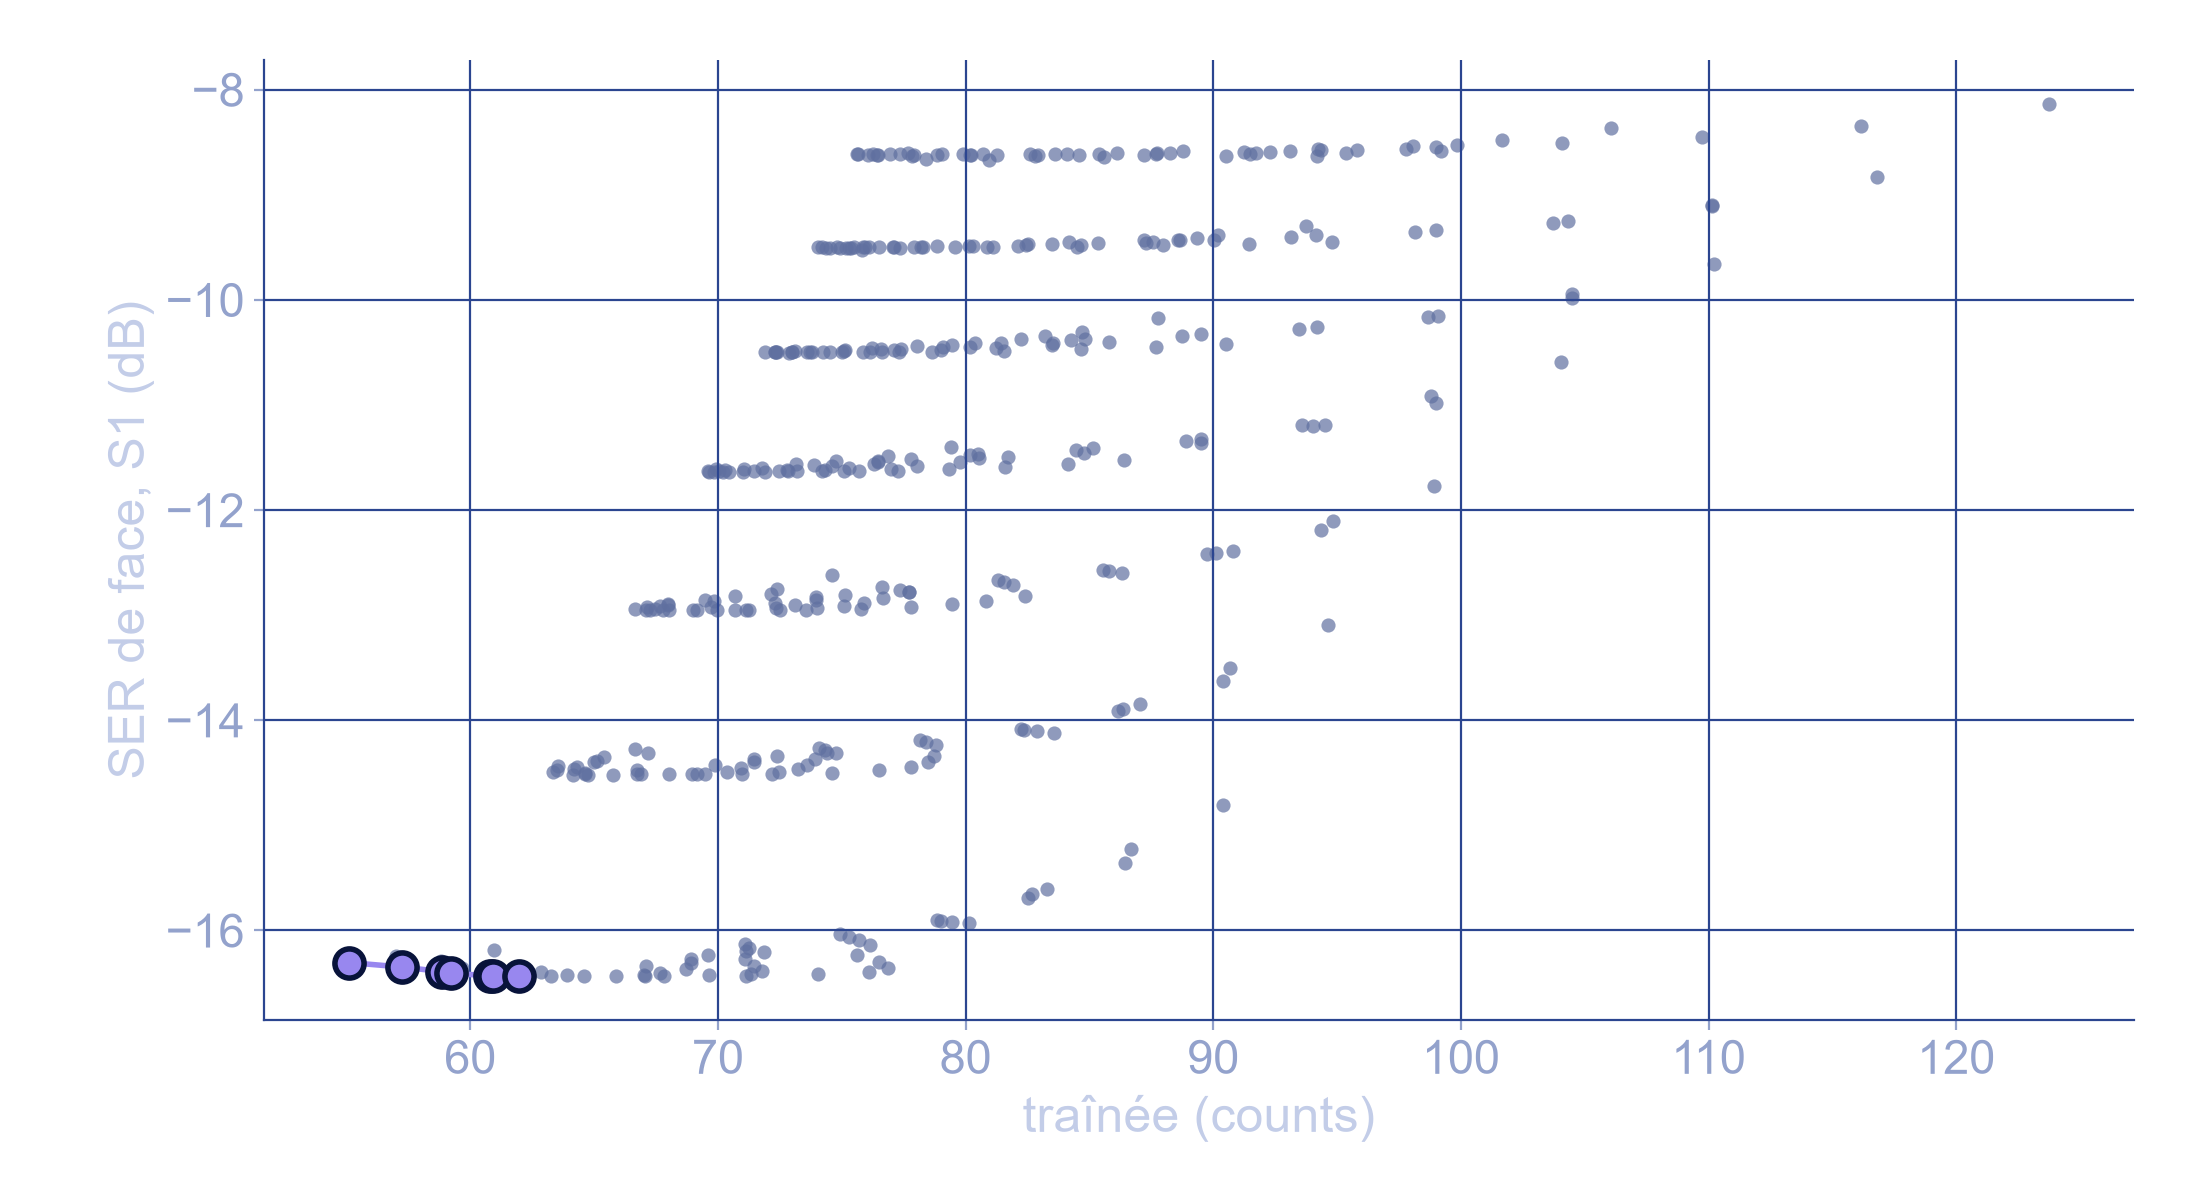
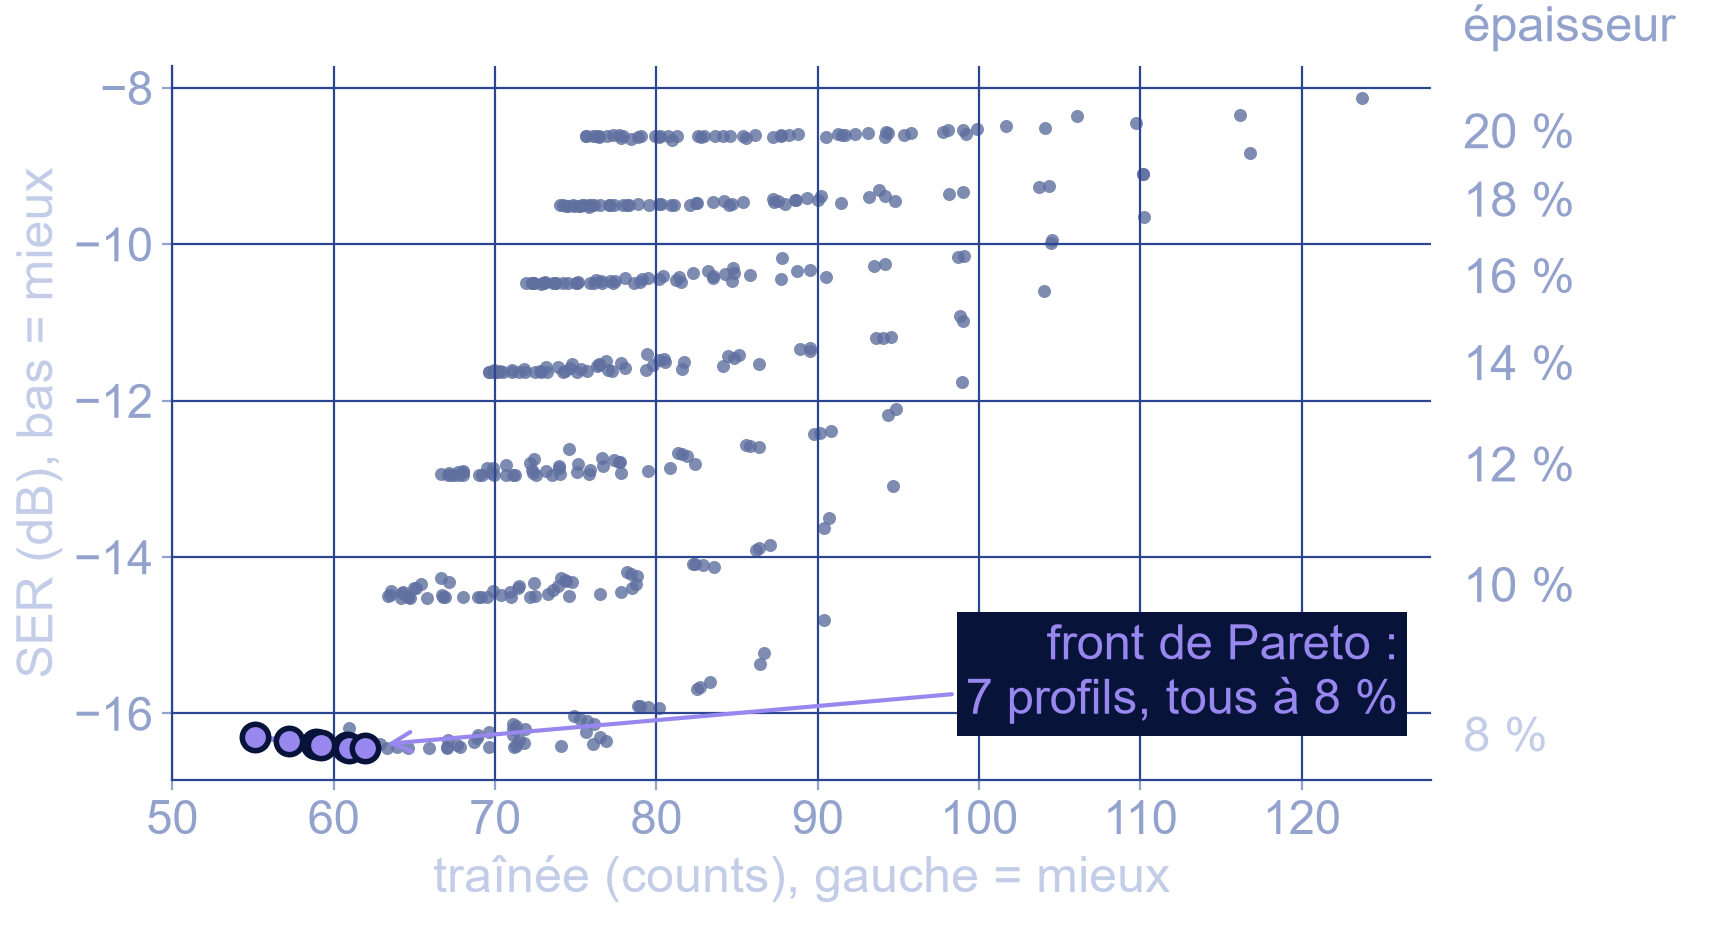
[V3] Wrap-up : figure V1 lisible (bandes d'épaisseur étiquetées), fond #08133A
- v1_front.png : chaque bande de points est étiquetée par son épaisseur,
  le front de Pareto est annoté, les axes indiquent le sens « mieux ».
- Toutes les figures : couleur de fond alignée sur le deck (#08133A).

diff --git a/wrapup/build.py b/wrapup/build.py
@@ -100,14 +100,24 @@ F1 = np.array([[float(r["CD_counts"]), float(r["SER_db"])] for r in R1])
 t1 = np.array([float(r["t"]) for r in R1])
 fr = pareto(F1)
 print(f"   V1 S1 : {len(R1)} faisables, front {len(fr)} profils, épaisseurs du front {sorted(set(t1[fr]))}")
-fig, ax = figure(1100, 600)
-ax.scatter(F1[:, 0], F1[:, 1], s=26, color=CTX, alpha=0.7, lw=0)
+fig, ax = figure(862, 470)  # affichée à cette taille sur la slide : 17,5 pt = 24 px
+ax.scatter(F1[:, 0], F1[:, 1], s=22, color=CTX, alpha=0.8, lw=0)
 o = fr[np.argsort(F1[fr, 0])]
 ax.plot(F1[o, 0], F1[o, 1], color=QUBO, lw=2)
-ax.scatter(F1[fr, 0], F1[fr, 1], s=110, color=QUBO, edgecolor=NAVY, lw=2, zorder=3)
-ax.set(xlabel="traînée (counts)", ylabel="SER de face, S1 (dB)")
+ax.scatter(F1[fr, 0], F1[fr, 1], s=90, color=QUBO, edgecolor=NAVY, lw=2, zorder=3)
+XR = 128
+ax.set(xlim=(50, XR), xlabel="traînée (counts), gauche = mieux", ylabel="SER (dB), bas = mieux")
+# chaque bande horizontale est une épaisseur : étiquetée à droite, alignée sur sa bande
+ax.text(XR + 2, F1[:, 1].max() + 0.9, "épaisseur", color=MUTE, fontsize=17.5, va="center", clip_on=False)
+for t in sorted(set(t1)):
+    ax.text(XR + 2, np.median(F1[t1 == t, 1]), f"{100 * t:.0f} %", color=TXT if t == t1[fr].min() else MUTE,
+            fontsize=17.5, va="center", clip_on=False)
+ax.annotate(f"front de Pareto :\n{len(fr)} profils, tous à {100 * t1[fr].min():.0f} %", xy=(F1[fr, 0].max() + 1, F1[fr, 1].mean()),
+            xytext=(126, F1[fr, 1].mean() + 0.9), color=QUBO, fontsize=17.5, va="center", ha="right",
+            bbox=dict(facecolor=NAVY, edgecolor="none", pad=3),
+            arrowprops=dict(arrowstyle="->", color=QUBO, lw=1.5))
 ax.spines[["top", "right"]].set_visible(False)
-fig.subplots_adjust(left=0.12, right=0.97, top=0.95, bottom=0.15)
+fig.subplots_adjust(left=0.1, right=0.83, top=0.93, bottom=0.17)
 save(fig, "v1_front.png")
 
 # ------------------------------------------------------------------ 4. V2 : la boucle construit le front (GIF, S2 graine 0)
